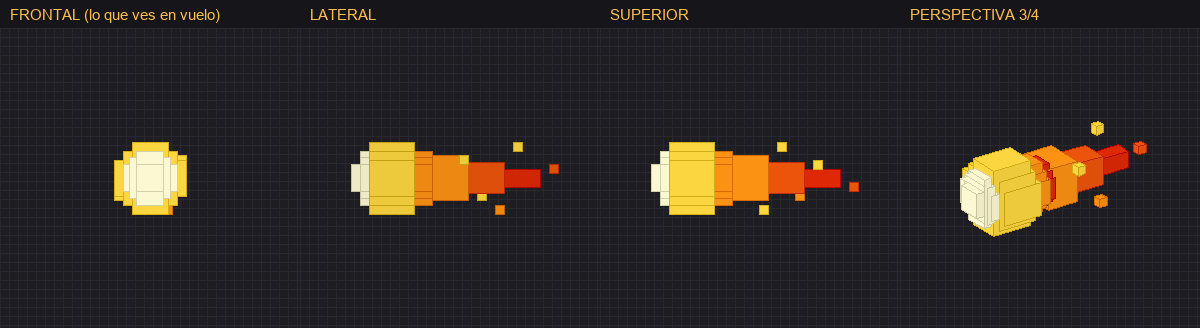
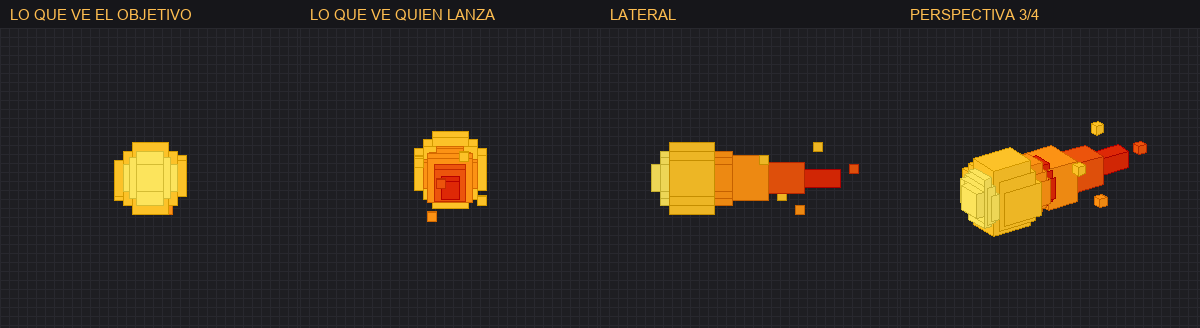
DJT-240: la Bala de fuego apunta hacia donde vuela
Primera prueba en partida, y el usuario vio el fallo al instante: el nucleo
brillante miraba a QUIEN LANZABA, no al objetivo. No era el modelo, era el
renderer. El ThrownItemRenderer de vanilla gira el item hacia la camara, que es
lo correcto para un sprite plano y un error para un modelo con nariz y estela:
la nariz apuntaba siempre a quien la mirase.

NinjaProjectileRenderer orienta los modelos 3D de jutsu segun la direccion de
vuelo y deja todo lo demas como estaba. Los proyectiles con items de vanilla
(shuriken de los shinobi, bolas de las bestias) siguen girando hacia la camara:
orientados, un sprite plano visto de canto desapareceria. Hereda del
ThrownItemRenderer y conserva su salvaguarda de no pintar el proyectil pegado a
la camara al salir. Registrado en los dos loaders; no hay EntityType nueva.

Arreglo de paso en NinjaProjectile: su tick sustituye entero al de vanilla y se
habia quedado sin updateRotation(), asi que los angulos solo se fijaban una vez
al lanzar. Para la Bala de fuego, que vuela recta, habria funcionado por
casualidad; uno con gravedad llevaria la nariz rigida mientras cae en arco.

La matematica de orientacion vive aparte (ProjectileOrientation) y se prueba
contra los angulos TAL COMO LOS CALCULA VANILLA, incluido el norte, que es el
caso del fallo. Un signo cambiado ahi no da error: da una bala volando de lado.

Tambien en la captura: el nucleo salia blanco grisaceo, no fuego. Era crema casi
[…]

diff --git a/common/src/main/java/com/zamu/dojutsu/client/render/NinjaProjectileRenderer.java b/common/src/main/java/com/zamu/dojutsu/client/render/NinjaProjectileRenderer.java
@@ -1,0 +1,70 @@
+package com.zamu.dojutsu.client.render;
+
+import com.mojang.blaze3d.vertex.PoseStack;
+import com.zamu.dojutsu.entity.NinjaProjectile;
+import com.zamu.dojutsu.items.JutsuModelData;
+import net.minecraft.client.renderer.MultiBufferSource;
+import net.minecraft.client.renderer.entity.EntityRendererProvider;
+import net.minecraft.client.renderer.entity.ItemRenderer;
+import net.minecraft.client.renderer.entity.ThrownItemRenderer;
+import net.minecraft.core.component.DataComponents;
+import net.minecraft.util.Mth;
+import net.minecraft.world.item.ItemDisplayContext;
+import net.minecraft.world.item.ItemStack;
+import net.minecraft.world.item.component.CustomModelData;
+
+/**
+ * Renderer de los proyectiles del mod (F11/DJT-240). <b>Solo cliente.</b>
+ *
+ * <p><b>Por que hace falta.</b> Hasta ahora la entidad se pintaba con el {@code ThrownItemRenderer} de vanilla,
+ * que gira el item <b>hacia la camara</b>. Para un sprite plano (una bola de nieve, un kunai) es lo correcto. Para
+ * un modelo 3D con nariz y estela es un error: la nariz apuntaba siempre a quien la miraba, asi que el que
+ * lanzaba la Bala de fuego veia el nucleo brillante de frente en vez de la estela alejandose. Lo detecto el
+ * propio usuario en la primera prueba en partida.
+ *
+ * <p>Este renderer <b>orienta los modelos 3D de jutsu segun la direccion de vuelo</b> y deja todo lo demas
+ * exactamente como estaba: los proyectiles con items de vanilla (shuriken de los shinobi, bolas de las bestias)
+ * siguen girando hacia la camara. Si se orientaran tambien, un sprite plano visto de canto desapareceria.
+ *
+ * <p>Reutiliza el {@code ThrownItemRenderer} heredando de el, asi que no se registra ninguna {@code EntityType}
+ * nueva (regla 5): solo se sustituye el renderer de una que ya existia.
+ */
+public final class NinjaProjectileRenderer extends ThrownItemRenderer<NinjaProjectile> {
+
+    private final ItemRenderer items;
+
+    public NinjaProjectileRenderer(EntityRendererProvider.Context context) {
+        super(context);
+        this.items = context.getItemRenderer();
+    }
+
+    @Override
+    public void render(NinjaProjectile projectile, float entityYaw, float partialTick, PoseStack poseStack,
+            MultiBufferSource buffers, int packedLight) {
+        ItemStack stack = projectile.getItem();
+        if (!isWorldModel(stack)) {
+            super.render(projectile, entityYaw, partialTick, poseStack, buffers, packedLight); // sprite: a camara
+            return;
+        }
+        if (projectile.tickCount < 2
+                && entityRenderDispatcher.camera.getEntity().distanceToSqr(projectile) < 12.25D) {
+            // Misma salvaguarda que el ThrownItemRenderer: recien lanzado, el proyectil esta dentro de la
+            // cabeza de quien lo lanza. Orientado, ademas, la estela apunta justo a su camara.
+            return;
+        }
+        poseStack.pushPose();
+        float yaw = Mth.lerp(partialTick, projectile.yRotO, projectile.getYRot());
+        float pitch = Mth.lerp(partialTick, projectile.xRotO, projectile.getXRot());
+        poseStack.mulPose(ProjectileOrientation.noseAlongFlight(yaw, pitch));
+        items.renderStatic(stack, ItemDisplayContext.GROUND, packedLight,
+                net.minecraft.client.renderer.texture.OverlayTexture.NO_OVERLAY, poseStack, buffers,
+                projectile.level(), projectile.getId());
+        poseStack.popPose();
+    }
+
+    /** Lleva un modelo 3D de jutsu (rango 3000+), no un sprite de vanilla. */
+    private static boolean isWorldModel(ItemStack stack) {
+        CustomModelData data = stack.get(DataComponents.CUSTOM_MODEL_DATA);
+        return data != null && JutsuModelData.isWorldModel(data.value());
+    }
+}

diff --git a/common/src/test/java/com/zamu/dojutsu/client/render/ProjectileOrientationTest.java b/common/src/test/java/com/zamu/dojutsu/client/render/ProjectileOrientationTest.java
@@ -1,0 +1,74 @@
+package com.zamu.dojutsu.client.render;
+
+import static org.junit.jupiter.api.Assertions.assertEquals;
+
+import org.joml.Vector3f;
+import org.junit.jupiter.api.Test;
+
+/**
+ * Tests de la orientacion de los modelos 3D en vuelo (F11/DJT-240).
+ *
+ * <p>Es la clase de matematica que se equivoca <b>en silencio</b>: un signo cambiado no da error, da una Bala de
+ * fuego que vuela de lado o con la nariz hacia quien la lanza -que es justo el fallo que se vio en la primera
+ * prueba en partida-. Por eso se comprueba contra los angulos <b>tal como los calcula vanilla</b>, no contra
+ * numeros elegidos a mano.
+ */
+class ProjectileOrientationTest {
+
+    private static final float EPS = 1.0e-4F;
+
+    /** Los angulos que fija {@code Projectile.updateRotation} para una velocidad dada. */
+    private static float[] vanillaAngles(double vx, double vy, double vz) {
+        double horizontal = Math.sqrt(vx * vx + vz * vz);
+        float yaw = (float) Math.toDegrees(Math.atan2(vx, vz));
+        float pitch = (float) Math.toDegrees(Math.atan2(vy, horizontal));
+        return new float[] {yaw, pitch};
+    }
+
+    private static void assertNosePointsAlong(double vx, double vy, double vz) {
+        float[] angles = vanillaAngles(vx, vy, vz);
+        Vector3f nose = ProjectileOrientation.nose(angles[0], angles[1]);
+        Vector3f expected = new Vector3f((float) vx, (float) vy, (float) vz).normalize();
+        assertEquals(expected.x, nose.x, EPS, "x para v=(" + vx + "," + vy + "," + vz + ")");
+        assertEquals(expected.y, nose.y, EPS, "y para v=(" + vx + "," + vy + "," + vz + ")");
+        assertEquals(expected.z, nose.z, EPS, "z para v=(" + vx + "," + vy + "," + vz + ")");
+    }
+
+    @Test
+    void sinGiroLaNarizMiraAlSur() {
+        // el convenio del modelo: nariz hacia +Z
+        Vector3f nose = ProjectileOrientation.nose(0.0F, 0.0F);
+        assertEquals(0.0F, nose.x, EPS);
+        assertEquals(0.0F, nose.y, EPS);
+        assertEquals(1.0F, nose.z, EPS);
+    }
+
+    @Test
+    void laNarizSigueALosCuatroPuntosCardinales() {
+        assertNosePointsAlong(0, 0, 1);   // sur
+        assertNosePointsAlong(0, 0, -1);  // norte: el caso del error, con la nariz hacia atras
+        assertNosePointsAlong(1, 0, 0);   // este
+        assertNosePointsAlong(-1, 0, 0);  // oeste
+    }
+
+    @Test
+    void laNarizSubeCuandoElProyectilSube() {
+        // ojo: en un proyectil el xRot positivo es SUBIR, al reves que en una entidad viva
+        assertNosePointsAlong(0, 1, 1);
+        assertNosePointsAlong(1, 2, 0);
+    }
+
+    @Test
+    void laNarizBajaCuandoElProyectilCae() {
+        // el arco de un proyectil con gravedad
+        assertNosePointsAlong(0, -1, 1);
+        assertNosePointsAlong(-2, -1, 3);
+    }
+
+    @Test
+    void cualquierDireccionDeDisparo() {
+        assertNosePointsAlong(0.3, 0.1, -0.9);
+        assertNosePointsAlong(-0.7, 0.4, 0.2);
+        assertNosePointsAlong(0.05, -0.6, -0.4);
+    }
+}

diff --git a/common/src/main/java/com/zamu/dojutsu/client/render/ProjectileOrientation.java b/common/src/main/java/com/zamu/dojutsu/client/render/ProjectileOrientation.java
@@ -1,0 +1,40 @@
+package com.zamu.dojutsu.client.render;
+
+import org.joml.Quaternionf;
+import org.joml.Vector3f;
+
+/**
+ * Orientacion de un modelo 3D de jutsu segun la direccion de vuelo (F11/DJT-240). <b>Matematica pura</b>,
+ * separada del renderer para poder probarla sin arrancar Minecraft.
+ *
+ * <p>El convenio del modelo es que su <b>nariz mira a +Z</b>. Vanilla guarda la direccion de un proyectil en
+ * sus angulos ({@code Projectile.updateRotation}): {@code yRot = atan2(vx, vz)} y {@code xRot = atan2(vy, horiz)},
+ * con {@code xRot} <b>positivo hacia arriba</b> -al reves que en una entidad viva, donde positivo es mirar abajo-.
+ * Esta clase convierte esos dos angulos en la rotacion que lleva +Z del modelo hasta la velocidad.
+ */
+public final class ProjectileOrientation {
+
+    private ProjectileOrientation() {
+    }
+
+    /**
+     * Rotacion que apunta la nariz (+Z) del modelo en la direccion de vuelo.
+     *
+     * <p>Primero se inclina en el eje X local (cabeceo) y despues se gira en Y (rumbo). El signo del cabeceo va
+     * invertido porque rotar +Z alrededor de X con un angulo positivo lo baja, y el {@code xRot} de un
+     * proyectil es positivo cuando sube.
+     *
+     * @param yawDegrees   {@code yRot} del proyectil
+     * @param pitchDegrees {@code xRot} del proyectil (positivo = subiendo)
+     */
+    public static Quaternionf noseAlongFlight(float yawDegrees, float pitchDegrees) {
+        return new Quaternionf()
+                .rotateY((float) Math.toRadians(yawDegrees))
+                .rotateX((float) Math.toRadians(-pitchDegrees));
+    }
+
+    /** Hacia donde apunta la nariz con esa orientacion. Visible para tests. */
+    static Vector3f nose(float yawDegrees, float pitchDegrees) {
+        return noseAlongFlight(yawDegrees, pitchDegrees).transform(new Vector3f(0.0F, 0.0F, 1.0F));
+    }
+}

diff --git a/neoforge/src/main/java/com/zamu/dojutsu/neoforge/client/DojutsuNeoForgeClientEvents.java b/neoforge/src/main/java/com/zamu/dojutsu/neoforge/client/DojutsuNeoForgeClientEvents.java
@@ -5,6 +5,7 @@ import com.zamu.dojutsu.client.render.ShinobiRenderer;
 import com.zamu.dojutsu.client.render.TailedBeastRenderer;
 import com.zamu.dojutsu.registry.ModEntities;
 import net.minecraft.client.renderer.entity.NoopRenderer;
+import com.zamu.dojutsu.client.render.NinjaProjectileRenderer;
 import net.minecraft.client.renderer.entity.ThrownItemRenderer;
 import net.neoforged.api.distmarker.Dist;
 import net.neoforged.bus.api.SubscribeEvent;
@@ -25,7 +26,7 @@ public final class DojutsuNeoForgeClientEvents {
     static void onRegisterRenderers(EntityRenderersEvent.RegisterRenderers event) {
         // Toda entidad registrada necesita un renderer (regla 5).
         // El proyectil ninja se dibuja como item lanzado (su display item, sin assets propios).
-        event.registerEntityRenderer(ModEntities.NINJA_PROJECTILE.get(), ThrownItemRenderer::new);
+        event.registerEntityRenderer(ModEntities.NINJA_PROJECTILE.get(), NinjaProjectileRenderer::new);
         // Ancla y marcador son invisibles (logica de servidor).
         event.registerEntityRenderer(ModEntities.ABILITY_ANCHOR.get(), NoopRenderer::new);
         event.registerEntityRenderer(ModEntities.MARKER.get(), NoopRenderer::new);

diff --git a/fabric/src/main/java/com/zamu/dojutsu/fabric/DojutsuFabricClient.java b/fabric/src/main/java/com/zamu/dojutsu/fabric/DojutsuFabricClient.java
@@ -7,6 +7,7 @@ import com.zamu.dojutsu.registry.ModEntities;
 import net.fabricmc.api.ClientModInitializer;
 import net.fabricmc.fabric.api.client.rendering.v1.EntityRendererRegistry;
 import net.minecraft.client.renderer.entity.NoopRenderer;
+import com.zamu.dojutsu.client.render.NinjaProjectileRenderer;
 import net.minecraft.client.renderer.entity.ThrownItemRenderer;
 
 /**
@@ -21,7 +22,7 @@ public final class DojutsuFabricClient implements ClientModInitializer {
         DojutsuMod.initClient();
         // Toda entidad registrada necesita un renderer (regla 5).
         // El proyectil ninja se dibuja como item lanzado (su display item, sin assets propios).
-        EntityRendererRegistry.register(ModEntities.NINJA_PROJECTILE.get(), ThrownItemRenderer::new);
+        EntityRendererRegistry.register(ModEntities.NINJA_PROJECTILE.get(), NinjaProjectileRenderer::new);
         // Ancla y marcador son invisibles (logica de servidor).
         EntityRendererRegistry.register(ModEntities.ABILITY_ANCHOR.get(), NoopRenderer::new);
         EntityRendererRegistry.register(ModEntities.MARKER.get(), NoopRenderer::new);

diff --git a/tools/modelos/fire_bullet.py b/tools/modelos/fire_bullet.py
@@ -19,8 +19,10 @@ OUT_MODEL, OUT_TEX = sys.argv[1], sys.argv[2]
 # ---------------------------------------------------------------- textura 16x16
 # Seis franjas horizontales de la paleta de la referencia, con ruido de pixel para que no sea plano.
 PALETTE = {
-    "core":   (255, 250, 210),   # NUCLEO BRILLANTE
-    "light":  (255, 214, 64),    # FUEGO CLARO
+    # El nucleo era crema (255, 250, 210) y en partida se leia BLANCO GRISACEO, no fuego: con luz de dia un
+    # color tan desaturado pierde el tono. Amarillo saturado, como el centro de la ficha de referencia.
+    "core":   (255, 228, 92),    # NUCLEO BRILLANTE
+    "light":  (255, 194, 40),    # FUEGO CLARO
     "mid":    (255, 146, 20),    # FUEGO MEDIO
     "dark":   (236, 84, 12),     # FUEGO OSCURO
     "rim":    (222, 40, 6),      # CONTORNO CALIENTE

diff --git a/common/src/test/java/com/zamu/dojutsu/items/JutsuModelDataTest.java b/common/src/test/java/com/zamu/dojutsu/items/JutsuModelDataTest.java
@@ -80,6 +80,16 @@ class JutsuModelDataTest {
     }
 
     @Test
+    void elRendererDistingueLosModelos3dDeLosPergaminos() {
+        // NinjaProjectileRenderer orienta segun el vuelo SOLO los modelos 3D; un sprite plano orientado
+        // desapareceria visto de canto
+        org.junit.jupiter.api.Assertions.assertTrue(JutsuModelData.isWorldModel(3356));
+        org.junit.jupiter.api.Assertions.assertTrue(JutsuModelData.isWorldModel(JutsuModelData.WORLD_MODEL_OFFSET));
+        org.junit.jupiter.api.Assertions.assertFalse(JutsuModelData.isWorldModel(356));
+        org.junit.jupiter.api.Assertions.assertFalse(JutsuModelData.isWorldModel(0));
+    }
+
+    @Test
     void unJutsuSinPergaminoNoTieneModelo3d() {
         assertEquals(0, JutsuModelData.worldModelOf("jutsu_inexistente"));
     }

diff --git a/common/src/main/java/com/zamu/dojutsu/entity/NinjaProjectile.java b/common/src/main/java/com/zamu/dojutsu/entity/NinjaProjectile.java
@@ -241,6 +241,10 @@ public class NinjaProjectile extends ThrowableItemProjectile {
         this.setPos(next.x, next.y, next.z);
         this.setDeltaMovement(ProjectileMath.applyGravity(
                 this.getDeltaMovement(), this.entityData.get(DATA_GRAVITY)));
+        // Rumbo y cabeceo siguen a la velocidad (F11/DJT-240). Este tick sustituye entero al de vanilla y se
+        // habia quedado sin esta linea, asi que los angulos solo se fijaban una vez, al lanzar. Sin ella, un
+        // modelo 3D orientado por NinjaProjectileRenderer llevaria la nariz rigida mientras cae en arco.
+        this.updateRotation();
         this.checkInsideBlocks();
     }
 

diff --git a/tools/modelos/preview.py b/tools/modelos/preview.py
@@ -67,10 +67,12 @@ def render(yaw, pitch, size=300, scale=9.0):
     return img
 
 
+# Con NinjaProjectileRenderer (DJT-240) el modelo se orienta segun el vuelo, nariz hacia +Z. El visor esta en
+# +Z, asi que la vista frontal es lo que ve el OBJETIVO, y girando 180 grados, lo que ve quien lanza.
 views = [
-    ("FRONTAL (lo que ves en vuelo)", 0.0, 0.0),
+    ("LO QUE VE EL OBJETIVO", 0.0, 0.0),
+    ("LO QUE VE QUIEN LANZA", math.pi, math.radians(8)),
     ("LATERAL", math.pi / 2, 0.0),
-    ("SUPERIOR", math.pi / 2, math.pi / 2),
     ("PERSPECTIVA 3/4", math.radians(55), math.radians(25)),
 ]
 W, H, PAD = 300, 300, 28

diff --git a/common/src/main/java/com/zamu/dojutsu/items/JutsuModelData.java b/common/src/main/java/com/zamu/dojutsu/items/JutsuModelData.java
@@ -196,6 +196,11 @@ public final class JutsuModelData {
      * inmediatamente inferior -el de otro jutsu-. Por eso el modelo 3D es <b>opt-in</b> por tecnica
      * ({@code displayModel3d} en su JSON) y no se aplica a todas automaticamente.
      */
+    /** Un {@code CustomModelData} es de modelo 3D en el mundo (rango 3000+), no de pergamino. */
+    public static boolean isWorldModel(int customModelData) {
+        return customModelData >= WORLD_MODEL_OFFSET;
+    }
+
     public static int worldModelOf(String jutsuId) {
         int scroll = of(jutsuId);
         return scroll == 0 ? 0 : WORLD_MODEL_OFFSET + scroll;

diff --git a/tools/modelos/README.md b/tools/modelos/README.md
@@ -9,9 +9,10 @@ Nacieron con el piloto de la Bala de fuego (DJT-240).
 py -3 tools/modelos/preview.py <modelo.json> <textura.png> <salida.png>
 ```
 
-Dibuja cuatro vistas (frontal, lateral, superior y 3/4). La **frontal es lo que ves en vuelo**: el
-`ThrownItemRenderer` de vanilla gira el ítem hacia la cámara y lo mira desde +Z, y la vista previa se
-coloca igual. No es el render exacto del juego, pero basta para juzgar silueta y color.
+Dibuja cuatro vistas: **lo que ve el objetivo**, **lo que ve quien lanza**, lateral y 3/4. Los modelos 3D
+de jutsu se orientan según la dirección de vuelo (`NinjaProjectileRenderer`), así que el objetivo ve la
+nariz y quien lanza ve la estela alejándose. No es el render exacto del juego, pero basta para juzgar
+silueta y color.
 
 Respeta `"shade": false` igual que Minecraft.
 
@@ -24,7 +25,9 @@ Construye el modelo de cubos y su textura 16×16 a partir de la paleta de la ref
 
 - Coordenadas dentro de **[-16, 32]**. Fuera de ahí sale el cubo morado.
 - Rotación en **un solo eje**, a ±22.5° o ±45°.
-- La nariz del proyectil va hacia **+Z**: es lo que mira la cámara en vuelo.
+- La nariz del proyectil va hacia **+Z**: el renderer la apunta en la dirección de vuelo.
+- Evita colores muy desaturados en lo que deba brillar: con luz de día, un crema casi blanco se lee como
+  **gris** en partida. Pasó con el primer núcleo de la Bala de fuego.
 - Para fuego, rayo y todo lo que deba brillar: `"shade": false` en cada cubo.
 - `custom_model_data` del modelo 3D = **3000 + el del pergamino** (`JutsuModelData.worldModelOf`).
 
